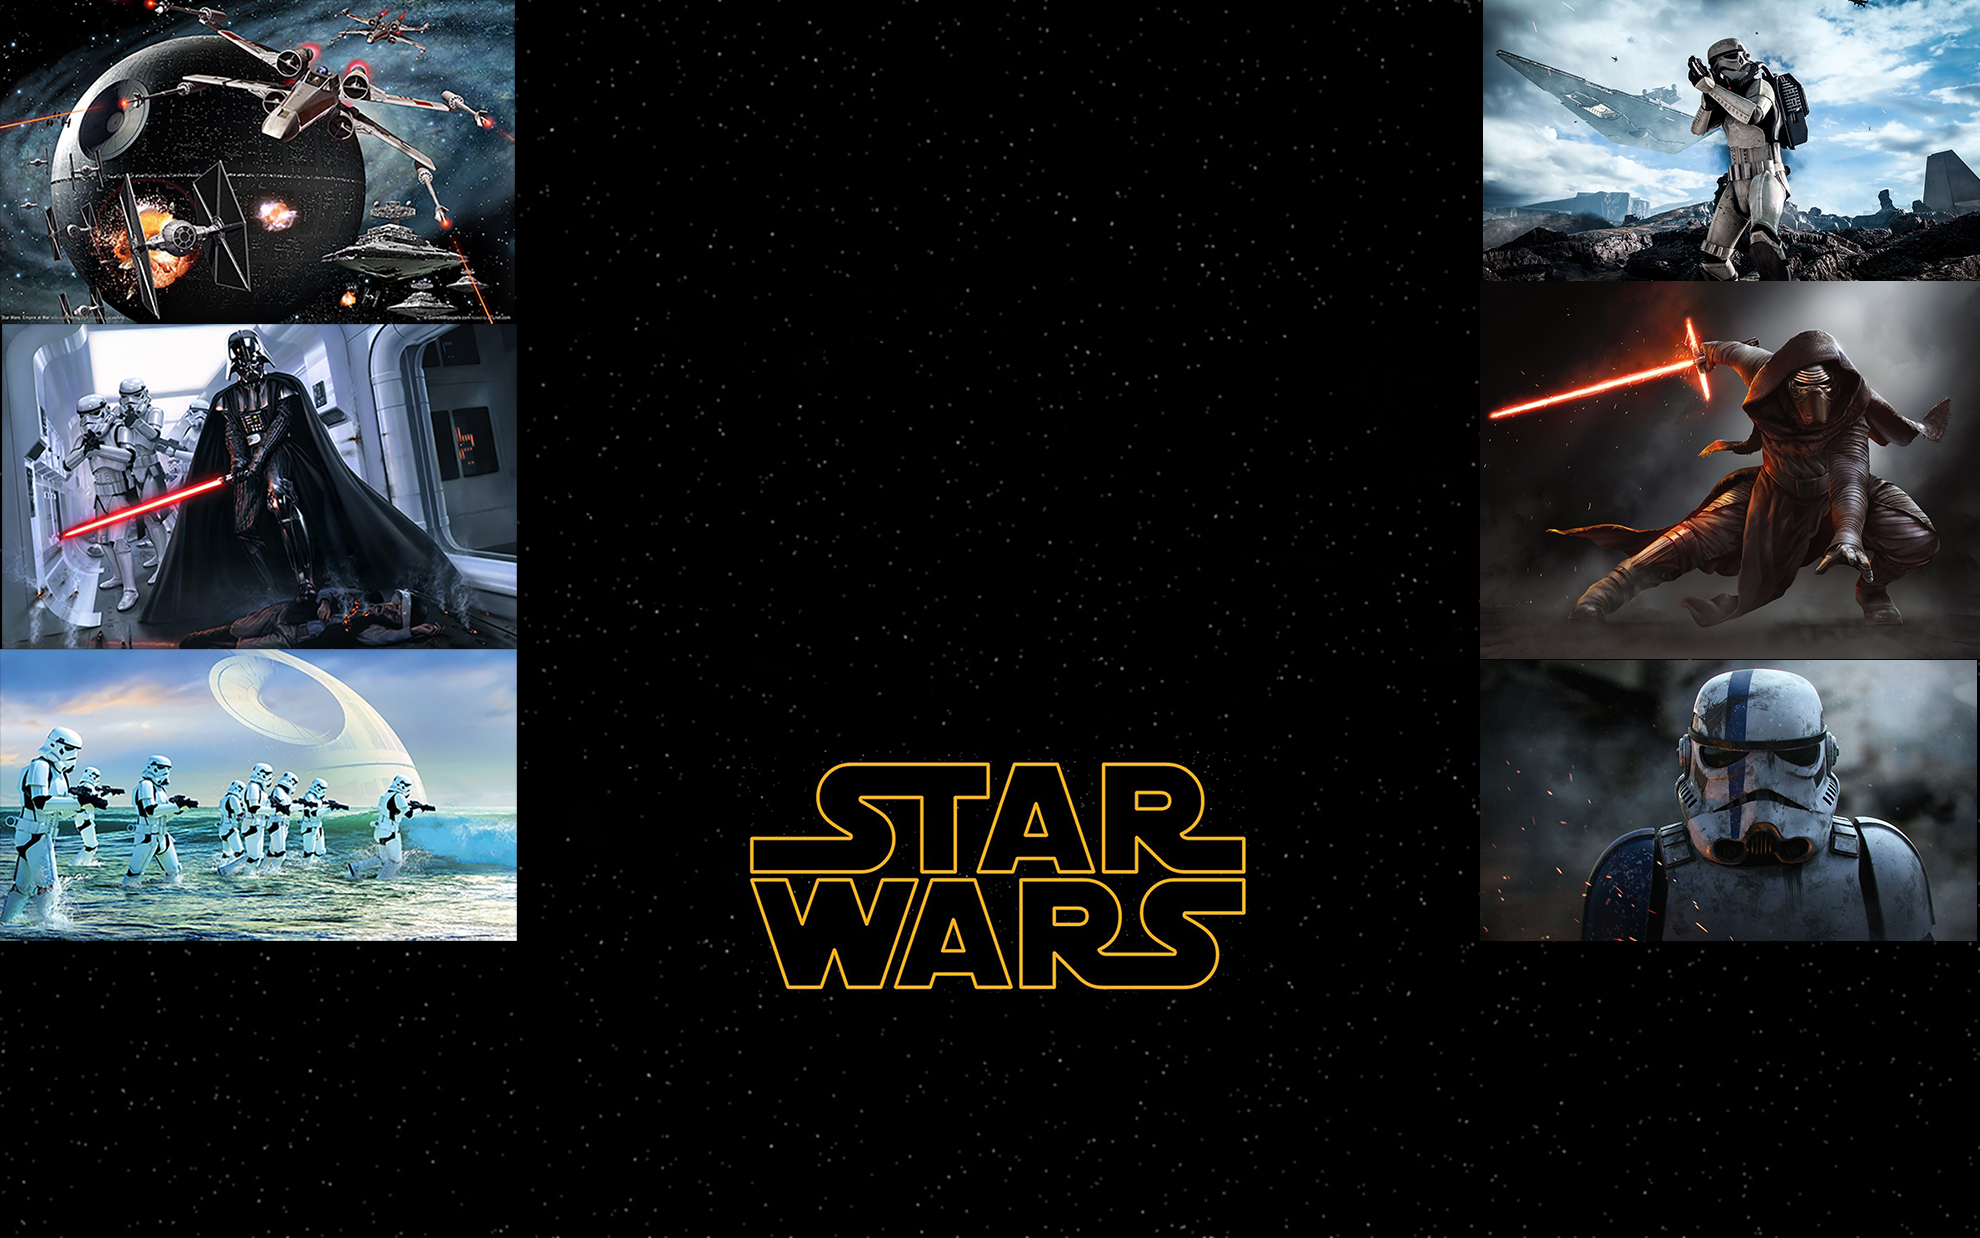
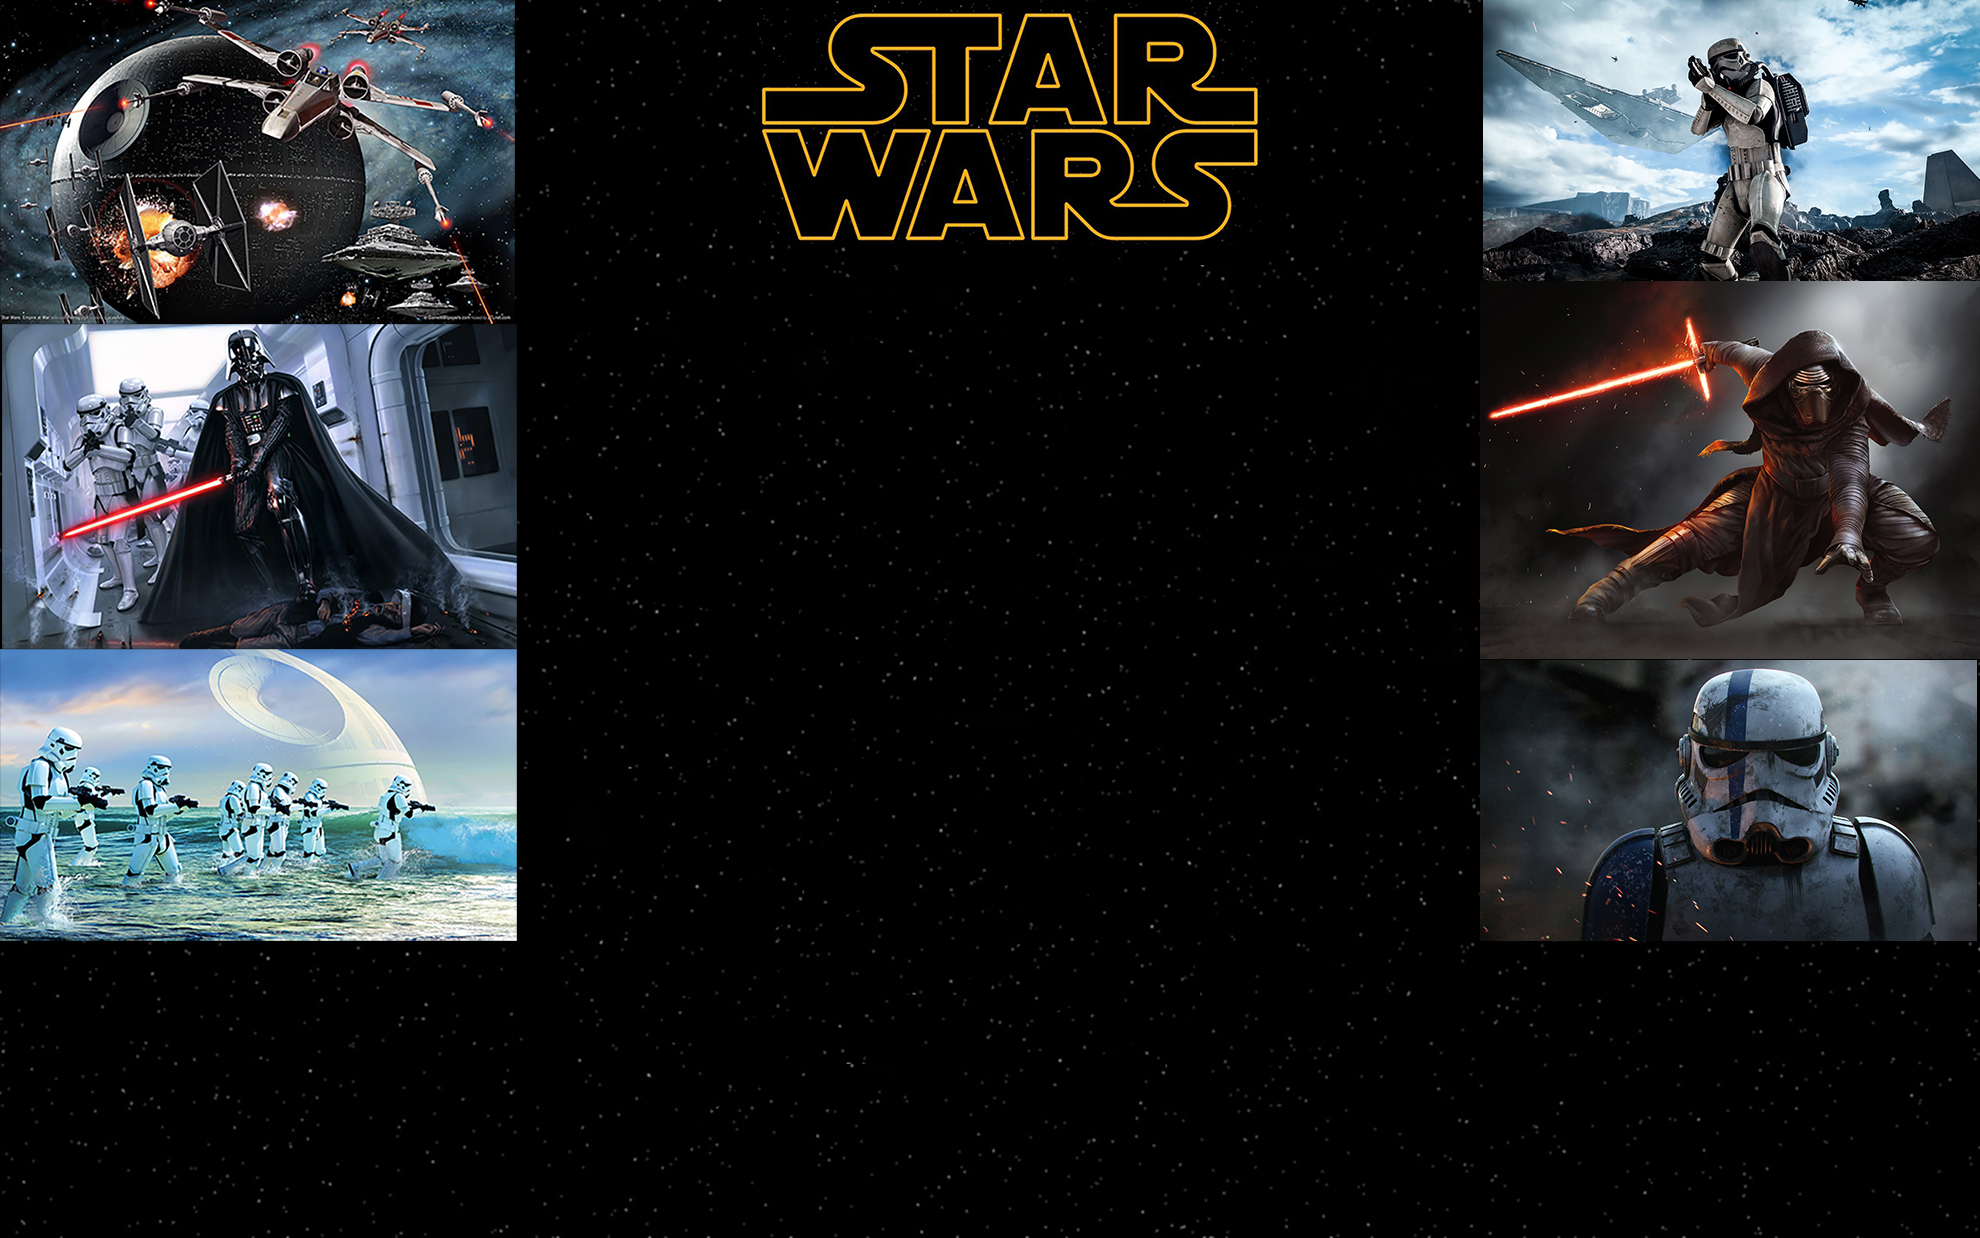
ändrat i HTML lagt till i CSS & JS fixat till bakgrund igen

Changed region(s): [[0.3697, 0.0, 0.647, 0.2149], [0.3697, 0.6139, 0.647, 0.7981]]

diff --git a/index.html b/index.html
@@ -6,117 +6,112 @@
     <link rel="stylesheet" href="style.css" />
     
   </head>
-  <script src="app.js"></script>
+ 
   <body>
     <section class="memory-game">
       
-       
-    
             <div class="memory-card"> 
-            <img class="font-face" img src="./img/Boba Fett2.png" alt="Boba Fett"/>
-            <img class="back-face" img src="./img/star wars font.png" alt="star wars font"/>
+            <img class="font-face" src="./img/Boba Fett2.png" alt="Boba Fett"/>
+            <img class="back-face" src="./img/star wars font.png" alt="star wars font"/>
           </div>
     
           <div class="memory-card"> 
-            <img class="font-face"img src="./img/Chewbacca2.png" alt="Chewbacca"/>                               
-            <img class="back-face"img src="./img/star wars font.png" alt="star wars font" />
+            <img class="font-face" src="./img/Chewbacca2.png" alt="Chewbacca"/>                               
+            <img class="back-face" src="./img/star wars font.png" alt="star wars font" />
           </div>
     
           <div class="memory-card"> 
-            <img class="font-face" img src="./img/Darth Maul2.png" alt="Darth Maul"/>       
-            <img class="back-face" img src="./img/star wars font.png" alt="star wars font"/>
+            <img class="font-face" src="./img/Darth Maul2.png" alt="Darth Maul"/>       
+            <img class="back-face" src="./img/star wars font.png" alt="star wars font"/>
           </div>
     
           <div class="memory-card"> 
-            <img class="font-face" img src="./img/Darth Vader2.png" alt="Darth Vader"/>
-            <img class="back-face" img src="./img/star wars font.png"" alt="star wars font"/>        
+            <img class="font-face" src="./img/Darth Vader2.png" alt="Darth Vader"/>
+            <img class="back-face" src="./img/star wars font.png"" alt="star wars font"/>        
           </div>
     
           <div class="memory-card"> 
-            <img class="font-face" img src="./img/General Griveous2.png"alt="General Griveous"/>   
-            <img class="back-face" img src="./img/star wars font.png"alt="star wars font"/>
+            <img class="font-face" src="./img/General Griveous2.png"alt="General Griveous"/>   
+            <img class="back-face" src="./img/star wars font.png"alt="star wars font"/>
           </div>
     
     
           <div class="memory-card"> 
-            <img class="font-face" img src="./img/Leia2.png"alt="Leia"/> 
-            <img class="back-face" img src="./img/star wars font.png" alt="star wars font"/>
+            <img class="font-face" src="./img/Leia2.png"alt="Leia"/> 
+            <img class="back-face" src="./img/star wars font.png" alt="star wars font"/>
           </div>
     
           <div class="memory-card"> 
-            <img class="font-face"img src="./img/Obi-wan Kenobi2.png" alt="Obi-wan Kenobi"/> 
-            <img class="back-face" img src="./img/star wars font.png" alt="star wars font"/>
+            <img class="font-face" src="./img/Obi-wan Kenobi2.png" alt="Obi-wan Kenobi"/> 
+            <img class="back-face" src="./img/star wars font.png" alt="star wars font"/>
           </div>
     
           <div class="memory-card"> 
-            <img class="font-face" img src="./img/Rey2.png" alt="Rey"/> 
-            <img class="back-face" img src="./img/star wars font.png" alt="star wars font"/>
+            <img class="font-face" src="./img/Rey2.png" alt="Rey"/> 
+            <img class="back-face" src="./img/star wars font.png" alt="star wars font"/>
           </div>
     
           <div class="memory-card"> 
-            <img class="font-face" img src="./img/stormtrooper2.png" alt="stormtrooper"/> 
-            <img class="back-face" img src="./img/star wars font.png" alt="star wars font"/>
+            <img class="font-face" src="./img/stormtrooper2.png" alt="stormtrooper"/> 
+            <img class="back-face" src="./img/star wars font.png" alt="star wars font"/>
           </div>
     
           <div class="memory-card"> 
-            <img class="font-face" img src="./img/Yoda0.png" alt="Yoda"/> 
-            <img class="back-face" img src="./img/star wars font.png" alt="star wars font"/>
+            <img class="font-face" src="./img/Yoda0.png" alt="Yoda"/> 
+            <img class="back-face" src="./img/star wars font.png" alt="star wars font"/>
           </div>
        
             <div class="memory-card"> 
-            <img class="font-face" img src="./img/Boba Fett2.png" alt="Boba Fett"/>
-            <img class="back-face" img src="./img/star wars font.png" alt="star wars font"/>
+            <img class="font-face" src="./img/Boba Fett2.png" alt="Boba Fett"/>
+            <img class="back-face" src="./img/star wars font.png" alt="star wars font"/>
           </div>
     
           <div class="memory-card"> 
-            <img class="font-face"img src="./img/Chewbacca2.png" alt="Chewbacca"/>                               
-            <img class="back-face"img src="./img/star wars font.png" alt="star wars font" />
+            <img class="font-face" src="./img/Chewbacca2.png" alt="Chewbacca"/>                               
+            <img class="back-face" src="./img/star wars font.png" alt="star wars font" />
           </div>
     
           <div class="memory-card"> 
-            <img class="font-face" img src="./img/Darth Maul2.png" alt="Darth Maul"/>       
-            <img class="back-face" img src="./img/star wars font.png" alt="star wars font"/>
+            <img class="font-face" src="./img/Darth Maul2.png" alt="Darth Maul"/>       
+            <img class="back-face" src="./img/star wars font.png" alt="star wars font"/>
           </div>
     
           <div class="memory-card"> 
-            <img class="font-face" img src="./img/Darth Vader2.png" alt="Darth Vader"/>
-            <img class="back-face" img src="./img/star wars font.png" alt="star wars font"/>        
+            <img class="font-face" src="./img/Darth Vader2.png" alt="Darth Vader"/>
+            <img class="back-face" src="./img/star wars font.png" alt="star wars font"/>        
           </div>
     
           <div class="memory-card"> 
-            <img class="font-face" img src="./img/General Griveous2.png"alt="General Griveous"/>   
-            <img class="back-face" img src="./img/star wars font.png"alt="star wars font"/>
+            <img class="font-face" src="./img/General Griveous2.png"alt="General Griveous"/>   
+            <img class="back-face" src="./img/star wars font.png"alt="star wars font"/>
           </div>
     
           <div class="memory-card"> 
-            <img class="font-face" img src="./img/Leia2.png"alt="Leia"/> 
-            <img class="back-face" img src="./img/star wars font.png" alt="star wars font"/>
+            <img class="font-face" src="./img/Leia2.png"alt="Leia"/> 
+            <img class="back-face" src="./img/star wars font.png" alt="star wars font"/>
           </div>
     
           <div class="memory-card"> 
-            <img class="font-face"img src="./img/Obi-wan Kenobi2.png" alt="Obi-wan Kenobi"/> 
-            <img class="back-face" img src="./img/star wars font.png" alt="star wars font"/>
+            <img class="font-face" src="./img/Obi-wan Kenobi2.png" alt="Obi-wan Kenobi"/> 
+            <img class="back-face" src="./img/star wars font.png" alt="star wars font"/>
           </div>
     
           <div class="memory-card"> 
-            <img class="font-face" img src="./img/Rey2.png" alt="Rey"/> 
-            <img class="back-face" img src="./img/star wars font.png" alt="star wars font"/>
+            <img class="font-face" src="./img/Rey2.png" alt="Rey"/> 
+            <img class="back-face" src="./img/star wars font.png" alt="star wars font"/>
           </div>
     
           <div class="memory-card"> 
-            <img class="font-face" img src="./img/stormtrooper2.png" alt="stormtrooper"/> 
-            <img class="back-face" img src="./img/star wars font.png" alt="star wars font"/>
+            <img class="font-face" src="./img/stormtrooper2.png" alt="stormtrooper"/> 
+            <img class="back-face" src="./img/star wars font.png" alt="star wars font"/>
           </div>
     
           <div class="memory-card"> 
-            <img class="font-face" img src="./img/Yoda0.png" alt="Yoda"/> 
-            <img class="back-face" img src="./img/star wars font.png" alt="star wars font"/>
-          </div>
-         
-         
-         
+            <img class="font-face" src="./img/Yoda0.png" alt="Yoda"/> 
+            <img class="back-face" src="./img/star wars font.png" alt="star wars font"/>
+          </div>    
     </section>
 
-   
+    <script src="app.js"></script>
   </body>
 </html>

diff --git a/style.css b/style.css
@@ -5,7 +5,7 @@
 }
 
 body {
-    height: 50vh;
+    height: 100vh;
     background: url(./img/Star_Wars_4.jpg);
     background-size:cover;
     display: flex;
@@ -13,11 +13,12 @@ body {
 
 
 .memory-game {
-    width: 540px;
-    height: 440px;
+    width: 640px;
+    height: 400px;
     margin: auto;
     display: flex;
     flex-wrap: wrap;  
+    perspective: 1000px;
 }
 .memory-card {
     width: calc(25% - 10px);
@@ -25,13 +26,19 @@ body {
     margin: 5px;
     position: relative;
     transform: scale(1);
+    transform-style: preserve-3d;
+    transition: transform .5s;
 }
 
 .memory-card:active {
     transform: scale(.97);
     transition: transform 0.2s;
-
 }
+
+.memory-card.flip {
+    transform: rotateY(180deg);
+  }
+
 
 .font-face,
 .back-face {

diff --git a/app.js b/app.js
@@ -1,12 +1,7 @@
-const cards = document.querySelectorAll('.memory-card');
+ const cards = document.querySelectorAll('.memory-card');
 
-function flipCard(){
-   console.log('I was clicked!');
-   console.log(this);
+function flipCard() {
+  this.classList.toggle('flip');
 }
 
-
-cards.forEach(card => card.addEventListener ('click', flipCard));
-
-
-    
+cards.forEach(card => card.addEventListener('click', flipCard));
